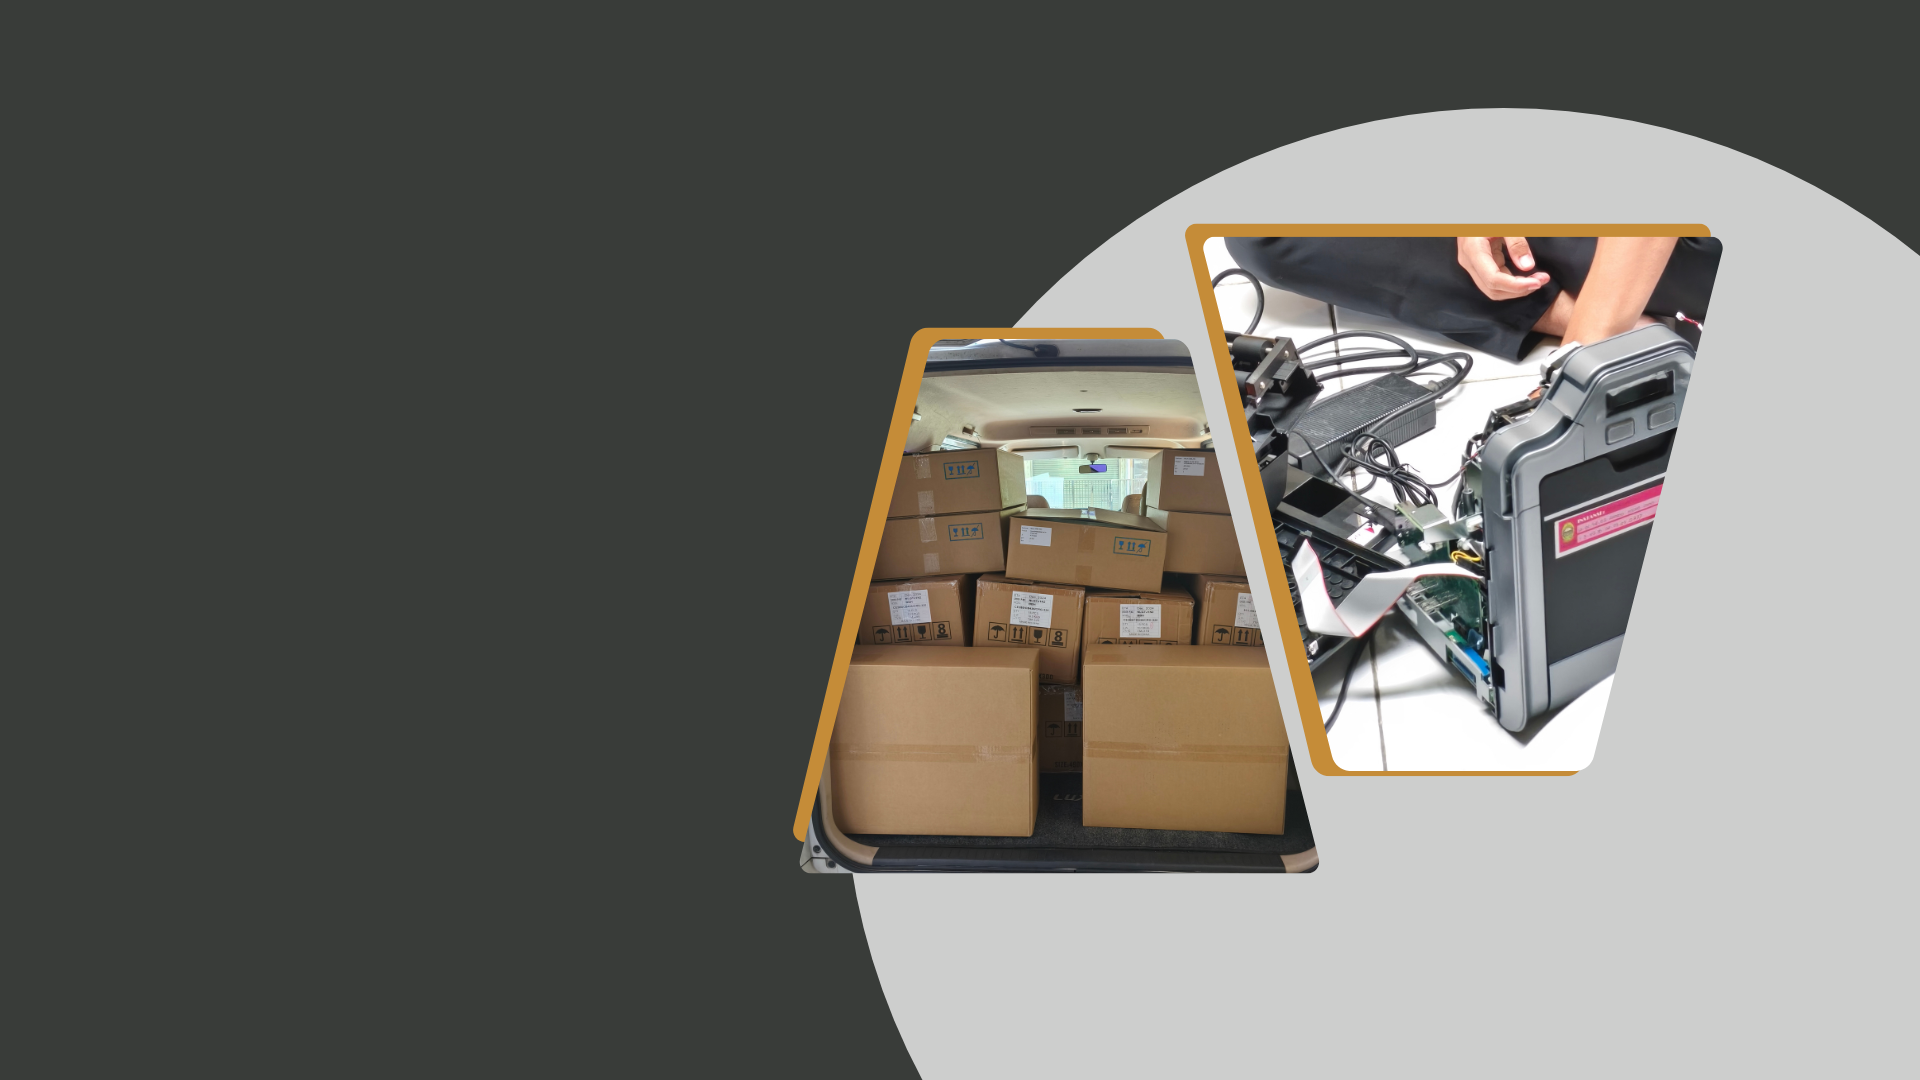
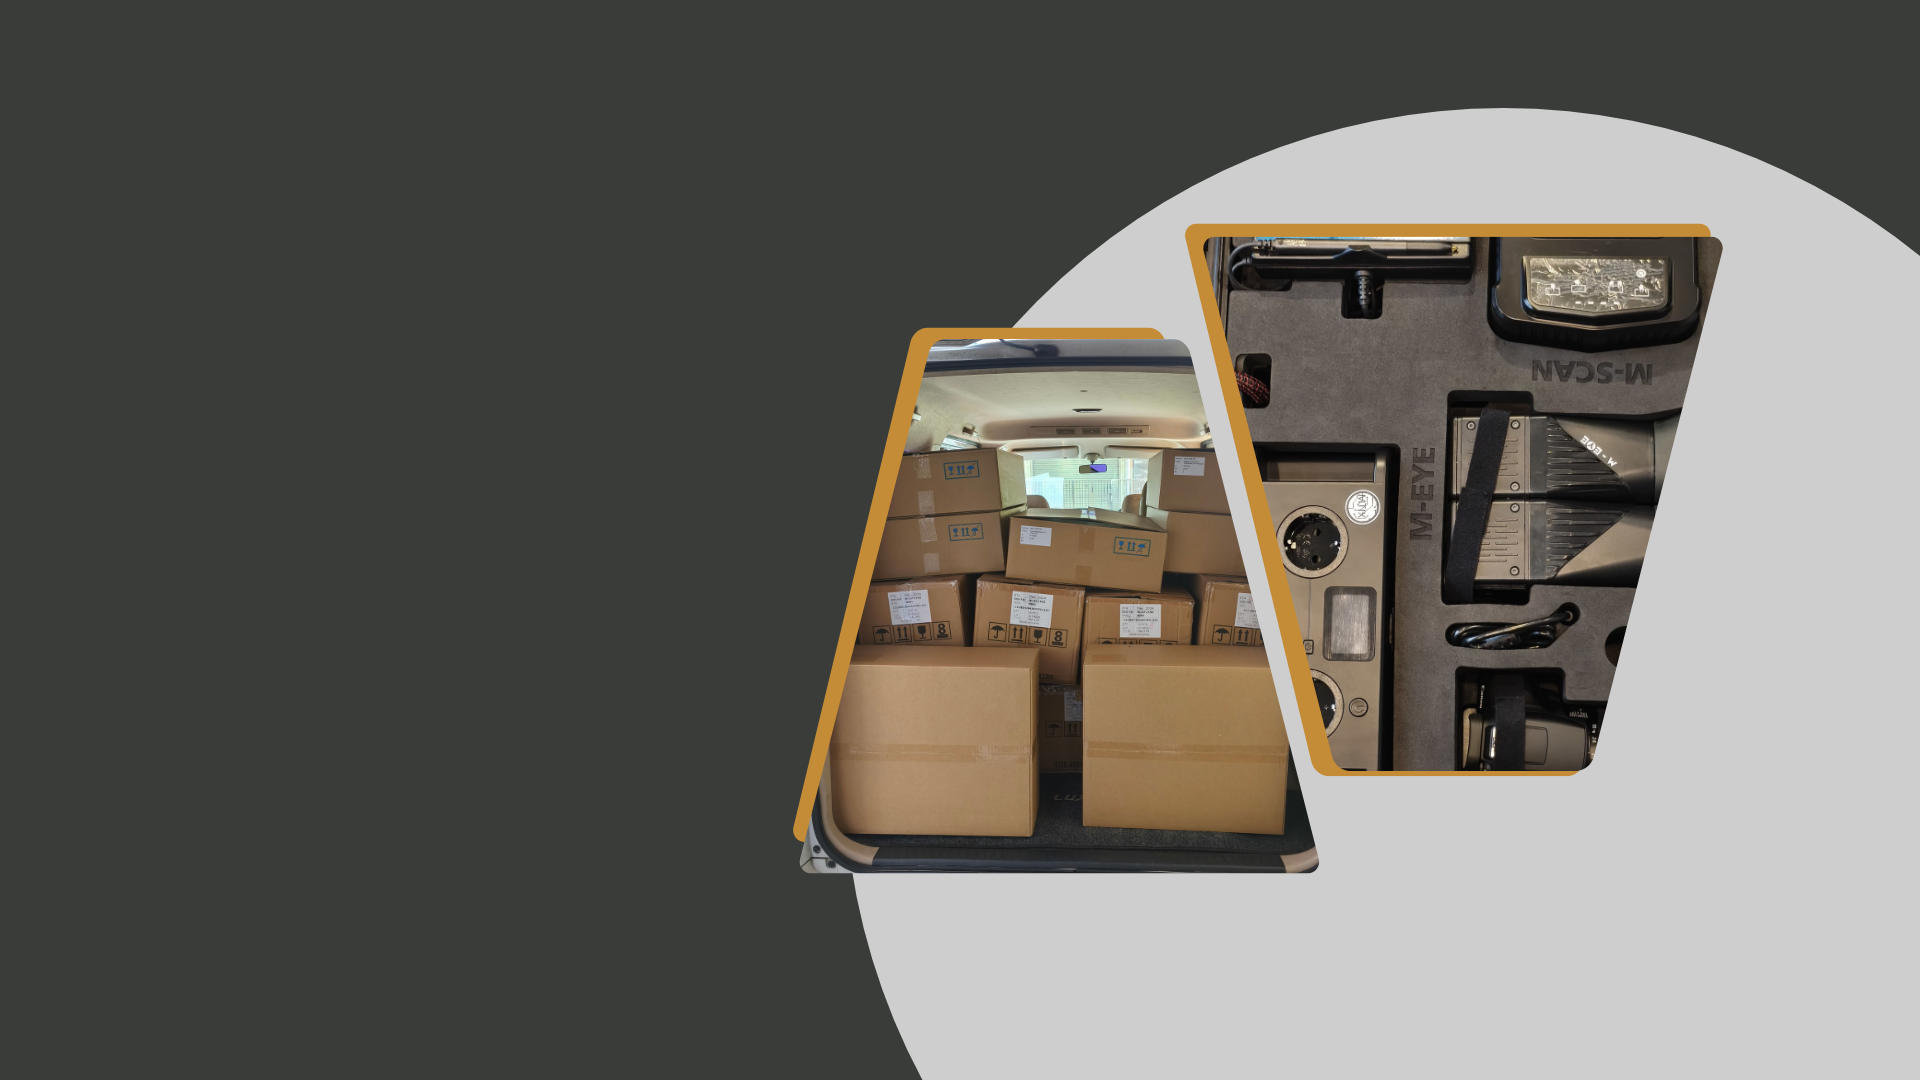
Update Foto

Changed region(s): [[0.625, 0.2139, 0.9062, 0.7333]]

diff --git a/resources/views/service.blade.php b/resources/views/service.blade.php
@@ -75,7 +75,7 @@
                                 <div class="step-block_one-text">Kami menjamin pengiriman barang ke seluruh Indonesis terkirim dengan Aman dan Cepat</div>
                                 <div class="step-block_one-content">
                                     <div class="image">
-                                        <img src="assets/images/gallery/shipment.jpg" alt="" />
+                                        <img src="assets/images/gallery/gkp1.jpg" alt="" />
                                     </div>
                                 </div>
                             </div>
